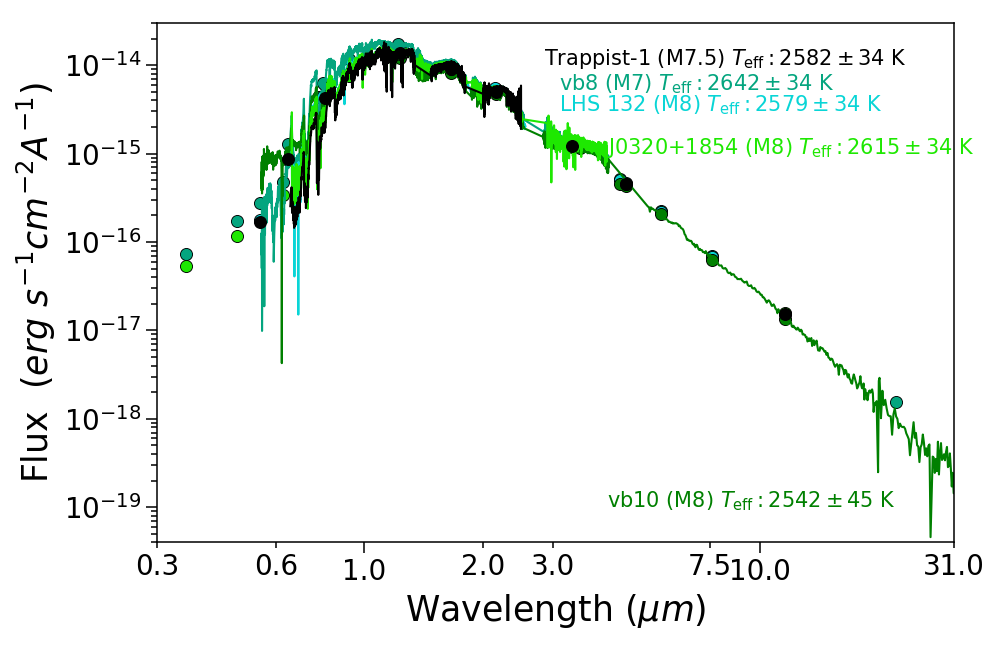
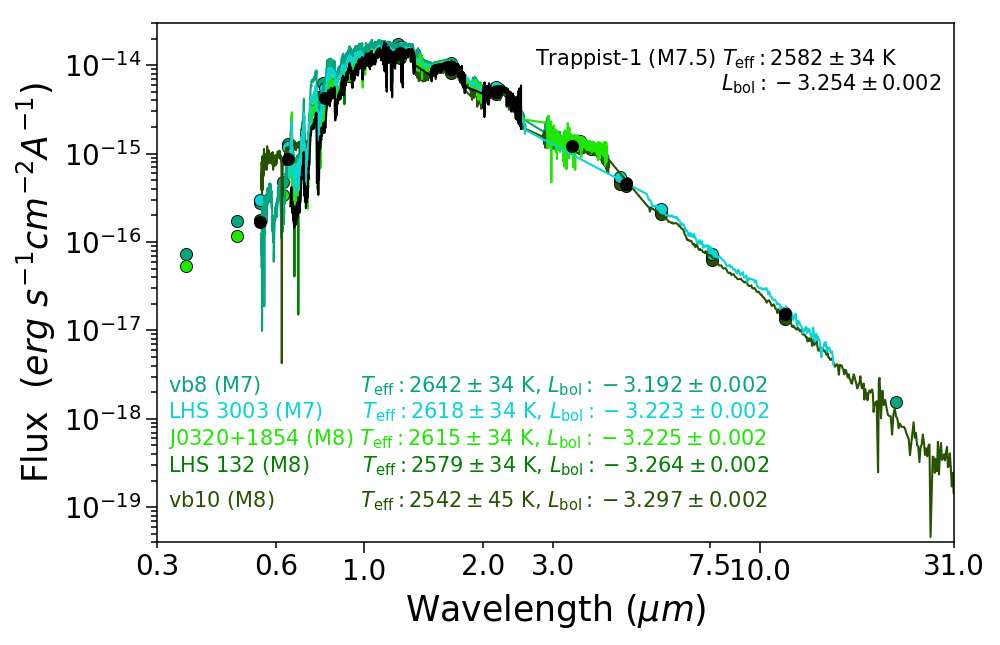
Removed figures not using. Finalized Field sample overall figure

diff --git a/Field_overall_comparison.py b/Field_overall_comparison.py
@@ -12,23 +12,27 @@ df_trap = pd.read_csv('Data/Gaia2306-0502 (M7.5) SED.txt', sep=" ", comment='#',
 df_trap_phot = pd.read_csv('Data/Gaia2306-0502 (M7.5) phot.txt', sep=" ",comment='#', header=None, names=["w", "f", "err"])
 
 # -------------- Comparison objects of the same Teff ----------------------------------
-df_0102 = pd.read_csv('Data/field_comp/Gaia0102-3737 (M8) SED.txt', sep=" ", comment='#', header=None,
+df_0102 = pd.read_csv('Data/field_comp/Gaia0102-3737 (M8) SED.txt', sep=" ", comment='#', header=None,  # LHS 132
                        names=["w", "f", "err"])
 df_0102_phot = pd.read_csv('Data/field_comp/Gaia0102-3737 (M8) phot.txt', sep=" ", comment='#', header=None,
                             names=["w", "f", "err"])
-df_1655 = pd.read_csv('Data/field_comp/Gaia1655-0823 (M7) SED.txt', sep=" ", comment='#', header=None,
+df_vb8 = pd.read_csv('Data/field_comp/Gaia1655-0823 (M7) SED.txt', sep=" ", comment='#', header=None,  # vb8
                        names=["w", "f", "err"])
-df_1655_phot = pd.read_csv('Data/field_comp/Gaia1655-0823 (M7) phot.txt', sep=" ", comment='#', header=None,
+df_vb8_phot = pd.read_csv('Data/field_comp/Gaia1655-0823 (M7) phot.txt', sep=" ", comment='#', header=None,
                             names=["w", "f", "err"])
 
 df_vb10 = pd.read_csv('Data/field_comp/Gaia1916+0508 (M8) SED.txt', sep=" ", comment='#', header=None,
-                       names=["w", "f", "err"])
+                      names=["w", "f", "err"])
 df_vb10_phot = pd.read_csv('Data/field_comp/Gaia1916+0508 (M8) phot.txt', sep=" ", comment='#', header=None,
-                       names=["w", "f", "err"])
+                           names=["w", "f", "err"])
 df_0320 = pd.read_csv('Data/field_comp/Gaia0320+1854 (M8) SED.txt', sep=" ", comment='#', header=None,
-                       names=["w", "f", "err"])
+                      names=["w", "f", "err"])
 df_0320_phot = pd.read_csv('Data/field_comp/Gaia0320+1854 (M8) phot.txt', sep=" ", comment='#', header=None,
-                       names=["w", "f", "err"])
+                           names=["w", "f", "err"])
+df_LHS3003 = pd.read_csv('Data/field_comp/1456-2809 (M7) SED.txt', sep=" ", comment='#', header=None,
+                      names=["w", "f", "err"])
+df_LHS3003_phot = pd.read_csv('Data/field_comp/1456-2809 (M7) phot.txt', sep=" ", comment='#', header=None,
+                      names=["w", "f", "err"])
 
 # -------------------------------------------------------------------------------------
 # ------------------- Plotting: Field Comparison of same Teff -------------------------------
@@ -41,21 +45,24 @@ plt.gcf().subplots_adjust(bottom=0.15, left=0.15)  # match other plots on github
 for axis in ['top', 'bottom', 'left', 'right']:  # Thicken the frame
     ax1.spines[axis].set_linewidth(1.1)
 
-# -------- Add data -----------
-ax1.loglog(df_1655['w'], df_1655['f'], c='#04A57F')
-ax1.scatter(df_1655_phot['w'], df_1655_phot['f'], c='k', s=70)  # The ones with size 70 are to give the circles a
-ax1.scatter(df_1655_phot['w'], df_1655_phot['f'], c='#04A57F', s=50)        # black border
+# -------- Add data -----------  # Greys look horrible for the overall
+ax1.loglog(df_vb8['w'], df_vb8['f'], c='#04A57F')  # Greys: #353B40 Greens:#04A57F
+ax1.scatter(df_vb8_phot['w'], df_vb8_phot['f'], c='k', s=70)
+ax1.scatter(df_vb8_phot['w'], df_vb8_phot['f'], c='#04A57F', s=50)  # Greys: #353B40 Greens:#04A57F
 ax1.loglog(df_trap['w'], df_trap['f'], c='k', zorder=9)
 ax1.scatter(df_trap_phot['w'], df_trap_phot['f'], c='k', s=70, zorder=10)
-ax1.loglog(df_0102['w'], df_0102['f'], c='#09D5D6')
+ax1.loglog(df_0102['w'], df_0102['f'], c='green')  # Greys: #6A777F Greens: green
 ax1.scatter(df_0102_phot['w'], df_0102_phot['f'], c='k', s=70)
-ax1.scatter(df_0102_phot['w'], df_0102_phot['f'], c='#09D5D6', s=50)
-ax1.loglog(df_vb10['w'], df_vb10['f'], c='green')
+ax1.scatter(df_0102_phot['w'], df_0102_phot['f'], c='green', s=50)  # Greys: #6A777F Greens: green
+ax1.loglog(df_vb10['w'], df_vb10['f'], c='#275202')  # Greys: #A0B2BF Greens: #275202
 ax1.scatter(df_vb10_phot['w'], df_vb10_phot['f'], c='k', s=70)
-ax1.scatter(df_vb10_phot['w'], df_vb10_phot['f'], c='green', s=50)
-ax1.loglog(df_0320['w'], df_0320['f'], c='#1EE801')
+ax1.scatter(df_vb10_phot['w'], df_vb10_phot['f'], c='#275202', s=50)  # Greys: #A0B2BF Greens: #275202
+ax1.loglog(df_0320['w'], df_0320['f'], c='#1EE801')  # Greys: #C0D5E5 Greens: #1EE801
 ax1.scatter(df_0320_phot['w'], df_0320_phot['f'], c='k', s=70)
-ax1.scatter(df_0320_phot['w'], df_0320_phot['f'], c='#1EE801', s=50)
+ax1.scatter(df_0320_phot['w'], df_0320_phot['f'], c='#1EE801', s=50)  # Greys: #C0D5E5 Greens: #1EE801
+ax1.loglog(df_LHS3003['w'], df_LHS3003['f'], c='#09D5D6')  # Greys: #D5EDFF Greens: #09D5D6
+ax1.scatter(df_LHS3003_phot['w'], df_LHS3003_phot['f'], c='k', s=70)
+ax1.scatter(df_LHS3003_phot['w'], df_LHS3003_phot['f'], c='#09D5D6', s=50)  # Greys: #D5EDFF Greens: #09D5D6
 
 #ax1.scatter(df_trap_phot['w'], df_trap_phot['f'], c='#7C7D70', s=50, zorder=10)
 
@@ -74,15 +81,27 @@ plt.yticks(fontsize=20)
 plt.xlabel('Wavelength ($\mu m$)', fontsize=25)
 plt.ylabel('Flux  ($erg\ s^{-1} cm^{-2} A^{-1}$)', fontsize=25)
 
-# ------ Labeling Spectra and Photometric points --------
-ax1.annotate('Trappist-1 (M7.5) $T_\mathrm{eff}: 2582 \pm 34$ K', xy=(2.85, 10**(-14)), color='k', fontsize=15)
-ax1.annotate('vb8 (M7) $T_\mathrm{eff}: 2642 \pm 34$ K', xy=(3.1, 5.2*10**(-15)), color='#04A57F', fontsize=15)
-ax1.annotate('LHS 132 (M8) $T_\mathrm{eff}: 2579 \pm 34$ K', xy=(3.1, 3*10**(-15)), color='#09D5D6', fontsize=15)
-ax1.annotate('vb10 (M8) $T_\mathrm{eff}: 2542 \pm 45$ K', xy=(4.1, 10**(-19)), color='green', fontsize=15)
-ax1.annotate('J0320+1854 (M8) $T_\mathrm{eff}: 2615 \pm 34$ K', xy=(4.1, 10**(-15)), color='#1EE801', fontsize=15)
-
-#TODO: Try a different color scheme maybe shades of grey for field objects?
-# Try this page: https://color.adobe.com/create/color-wheel/?base=2&rule=Shades&selected=1&name=My%20Color%20Theme&mode=rgb&rgbvalues=0.626133907966353,0.697497905064047,0.75,0.41742260531090203,0.4649986033760313,0.5,0.8348452106218041,0.9299972067520627,1,0.20871130265545101,0.23249930168801566,0.25,0.7513606895596237,0.8369974860768564,0.9&swatchOrder=0,1,2,3,4
-
 plt.tight_layout()
+
+# ------ Labeling Spectra and Photometric points --------
+ax1.annotate('Trappist-1 (M7.5) $T_\mathrm{eff}: 2582 \pm 34$ K', xy=(2.7, 10**(-14)), color='k', fontsize=15)
+ax1.annotate('$L_\mathrm{bol}: -3.254 \pm 0.002$', xy=(8, 5.2*10**(-15)), color='k', fontsize=15)
+ax1.annotate('vb8 (M7)               $T_\mathrm{eff}: 2642 \pm 34$ K, $L_\mathrm{bol}: -3.192 \pm 0.002$',
+             xy=(0.32, 2*10**(-18)), color='#04A57F', fontsize=15)
+ax1.annotate('LHS 3003 (M7)      $T_\mathrm{eff}: 2618 \pm 34$ K, $L_\mathrm{bol}: -3.223 \pm 0.002$',
+             xy=(0.32, 10**(-18)), color='#09D5D6', fontsize=15)
+ax1.annotate('J0320+1854 (M8) $T_\mathrm{eff}: 2615 \pm 34$ K, $L_\mathrm{bol}: -3.225 \pm 0.002$',
+             xy=(0.32, 5*10**(-19)), color='#1EE801', fontsize=15)
+ax1.annotate('LHS 132 (M8)        $T_\mathrm{eff}: 2579 \pm 34$ K, $L_\mathrm{bol}: -3.264 \pm 0.002$',
+             xy=(0.32, 2.5*10**(-19)), color='green', fontsize=15)
+ax1.annotate('vb10 (M8)             $T_\mathrm{eff}: 2542 \pm 45$ K, $L_\mathrm{bol}: -3.297 \pm 0.002$',
+             xy=(0.32, 10**(-19)), color='#275202', fontsize=15)
+
 plt.savefig('Figures/comparison_FieldTeff.png')
+
+# To Make the zoom in
+plt.xlim([0.65, 1])
+plt.ylim([10**(-16), 3*10**(-14)])
+ax1.xaxis.set_minor_locator(plt.FixedLocator([0.65, 0.7, 0.8, 0.9]))
+fig.set_size_inches(11.32, 8.59)
+plt.savefig('Figures/comparison_FieldTeff_zoom.png')
